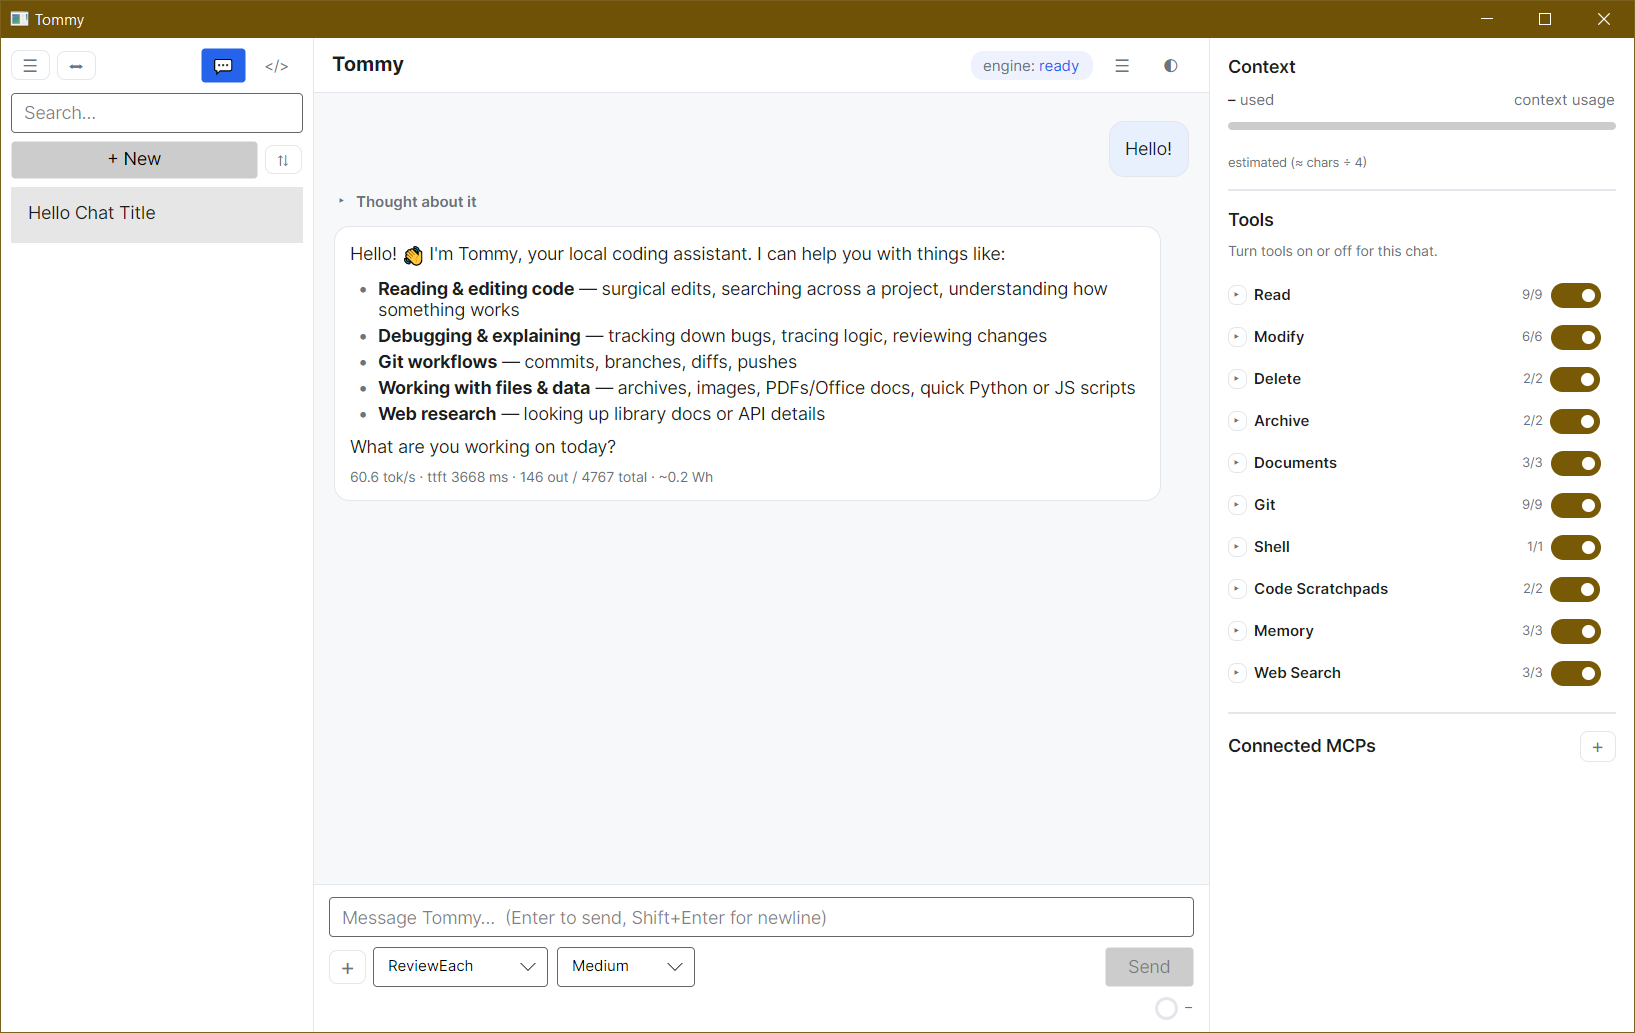
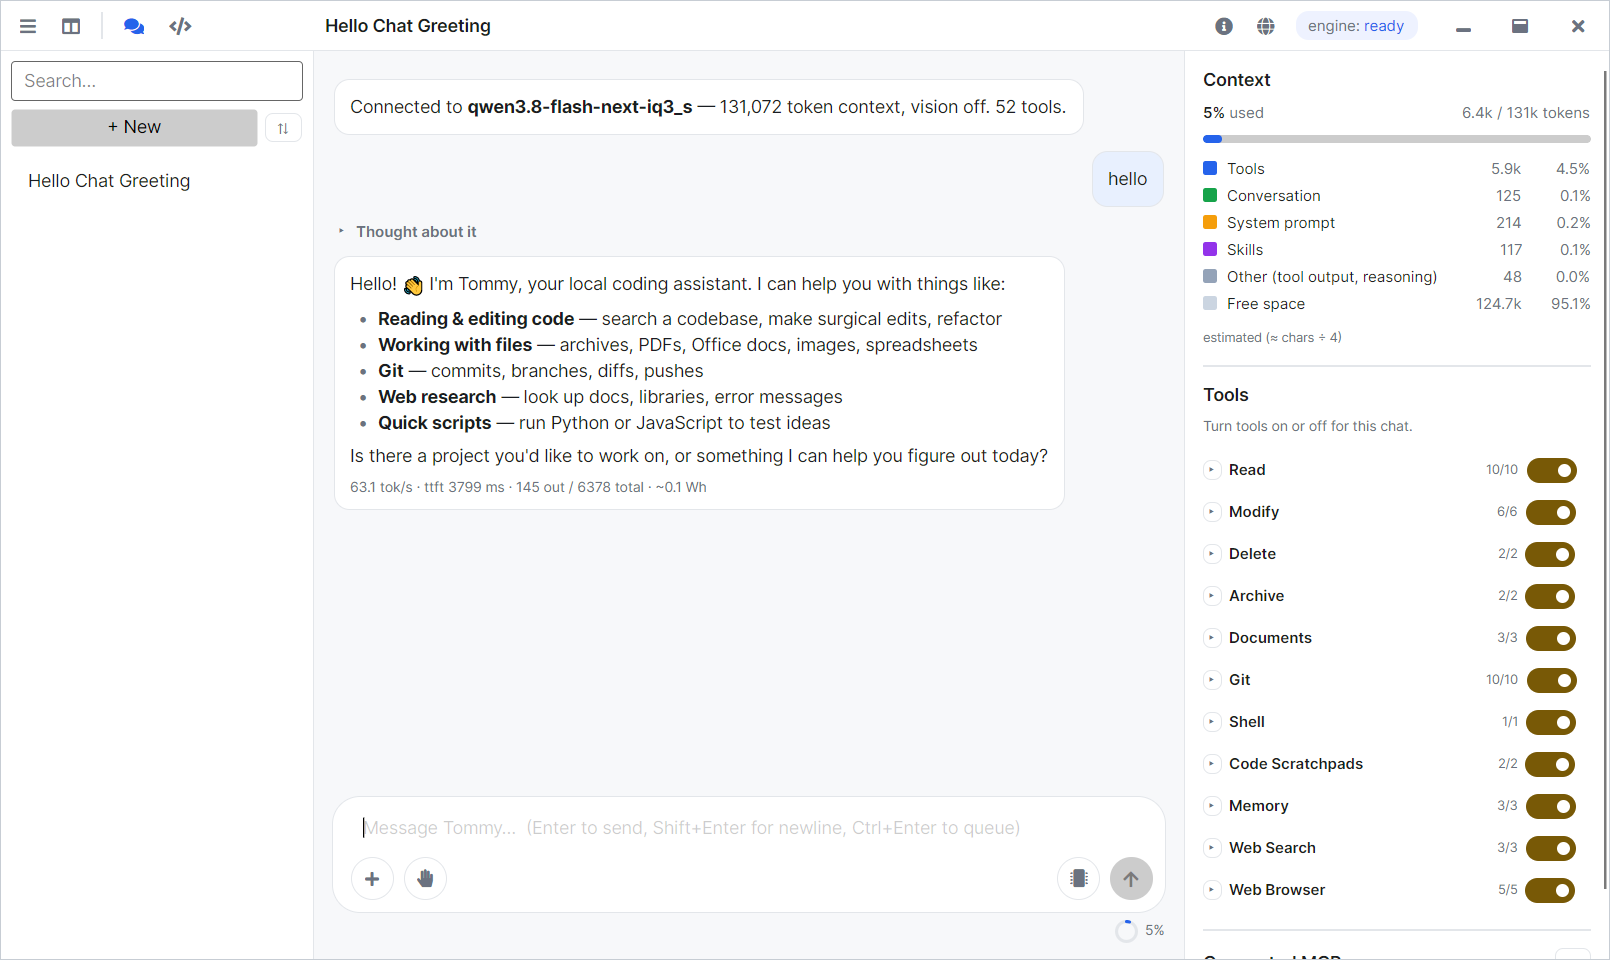
update readme

diff --git a/README.md b/README.md
@@ -7,14 +7,14 @@ Tommy is a desktop coding agent that use the excellent Strata LLM engine.
 
 # Backstory
 
-After trying many local agents, I decided none of them matched my expectations and requirments, thus I decide to develop Tommy. 
+After trying many local agents, I decided none of them matched my expectations and requirements, thus I decide to develop Tommy. 
 
 I tried many local agents, and I found limitation in each one of them:
 
-- LM Studio Bionic was a gold mine when I found it, but it runs very slowly on my PC. The same PC can run Strata engine with a bigger model at 100t/s, whereas Bionic running a smaller model can do 10-15t/s. Bionic limitation was that it did not support custom OpenAI comptabile endpoints, and it seems they are pushing for the cloud api more than running local models.
-- Goose: Goose user interface is a huge mess. You cannot change permission level once a chat is created, and all chats should have a working directory. You cannot even delete a chat! You have go to settings and find chat history to be able to delete. Goose also did not allow chaging a chat reasoning effort, instead it has to be done in settings and it will apply for new chats only.
-- AnythingLLM: Not an agent, but at first I liked the idea that it can take any kind of file and feed it to a model. However it cannot take directories, so I dropped it.
-- Cline worked the best out of the 3 I tried, but cline has to live inside an IDE (not an issue), and the integration in Visual Studio code was clunky. It also provided poor tool support for the model, since it kept using the shell for most basic tasks (find files, read file, get file line count, etc). 
+- LM Studio Bionic was a gold mine when I found it, but it runs very slowly on my PC. The same PC can run Strata engine with a bigger model at 100t/s, whereas Bionic running a smaller model can do 10-15t/s. Bionic limitation was that it did not support custom OpenAI compatible endpoints, and it seems they are pushing for the cloud api more than running local models.
+- Goose: Goose user interface is a huge mess. You cannot change permission level once a chat is created, and all chats should have a working directory. You cannot even delete a chat! You have go to settings and find chat history to be able to delete. Goose also did not allow changing a chat reasoning effort, instead it has to be done in settings, and it will apply for new chats only.
+- AnythingLLM: Not an agent, but at first I liked the idea that it can take any kind of file and feed it to a model. However, it cannot take directories, so I dropped it.
+- Cline worked the best out of the 3 I tried, but cline has to live inside an IDE (not an issue), and the integration in Visual Studio code was clunky. It also provided poor tool support for the model, since it kept using the shell for most basic tasks (find files, read file, get file line count, etc.). 
 
 I drafted the project plan and started the initial development with Claude Code, but once Tommy is mature enough, I will use it to develop itself. I believe coding agents should not replace human efforts, and instead they should complement it.
 
@@ -26,10 +26,10 @@ Project goals are the following:
 
 - Provide a good subset of built-in tools with focus on sandboxing and LLM security best practices.
 - Provide a good user experience, including interaction with the app and an organized user interface.
-- Provide good extensiblity via Skills and MCP servers.
+- Provide good extensibility via Skills and MCP servers.
 
 Tommy does not intend to replace Claude Code, as limitations of local models are real (context length and speed).
-However for most tasks, Tommy can be used and it's smart enough to manage its context window well.
+However for most tasks, Tommy can be used, and it's smart enough to manage its context window well.
 
 # LLM Model and Speed
 
@@ -37,11 +37,11 @@ Since Tommy relies on Strata engine, the speed depends on your Strata engine. Bu
 
 The model that Tommy use is Qwen3.8-Flash-Next
 
-On my machine, it runs about 60-100t/s, depending on context length. Your mileage may varies.
+On my machine, it runs about 60-100t/s, depending on context length. Your mileage may vary.
 
-Currently I am focused on using the Strata engine, it's well integrated in Tommy and I even use custom Strata APIs for metrics.
+Currently, I am focused on using the Strata engine, it's well integrated in Tommy and I even use custom Strata APIs for metrics.
 
-However, technically it is possible to use any OpenAI comptabile endpoint, as long as tool usage in that endpoint is good. I plan to add that in a future release, along with a model performance benchmark so that you can know if that endpoint is well supported or if it will gives you trouble.
+However, technically it is possible to use any OpenAI compatible endpoint, as long as tool usage in that endpoint is good. I plan to add that in a future release, along with a model performance benchmark so that you can know if that endpoint is well-supported or if it will give you trouble.
 
 # Implemented Feature Set
 
@@ -53,6 +53,8 @@ However, technically it is possible to use any OpenAI comptabile endpoint, as lo
 - Code scratchpads (Python + JavaScript)
 - Shell tools
 - Web search and web research.
+- Integrated web browser with model integration
+- Out of the box support for MySQL / MariaDB / SQL Server databases
 - Light and Dark theme.
 
 Many more to come.
@@ -60,7 +62,7 @@ Many more to come.
 # Technology Stack
 
 The project aims to be compatible with Windows and Linux. I used C# as it's my favorite language.
-As for the UI, most of C# ecosystem is tied to a Windows UI framework (WPF, WinForms, UWP). So I decided to use Avalonia UI framework as I am familiar with XAML and it is cross platform.
+As for the UI, most of C# ecosystem is tied to a Windows UI framework (WPF, WinForms, UWP). So I decided to use Avalonia UI framework as I am familiar with XAML, and it's cross-platform.
 
 The other idea for UI is to have the C# engine runs the agent core, and the UI to be an electron app using AngularJS as frontend. I may or may not follow this path, depending on how rigid avalonia customization is. For now, the UI works, and it's fast, and there is no electron bloat.
 
